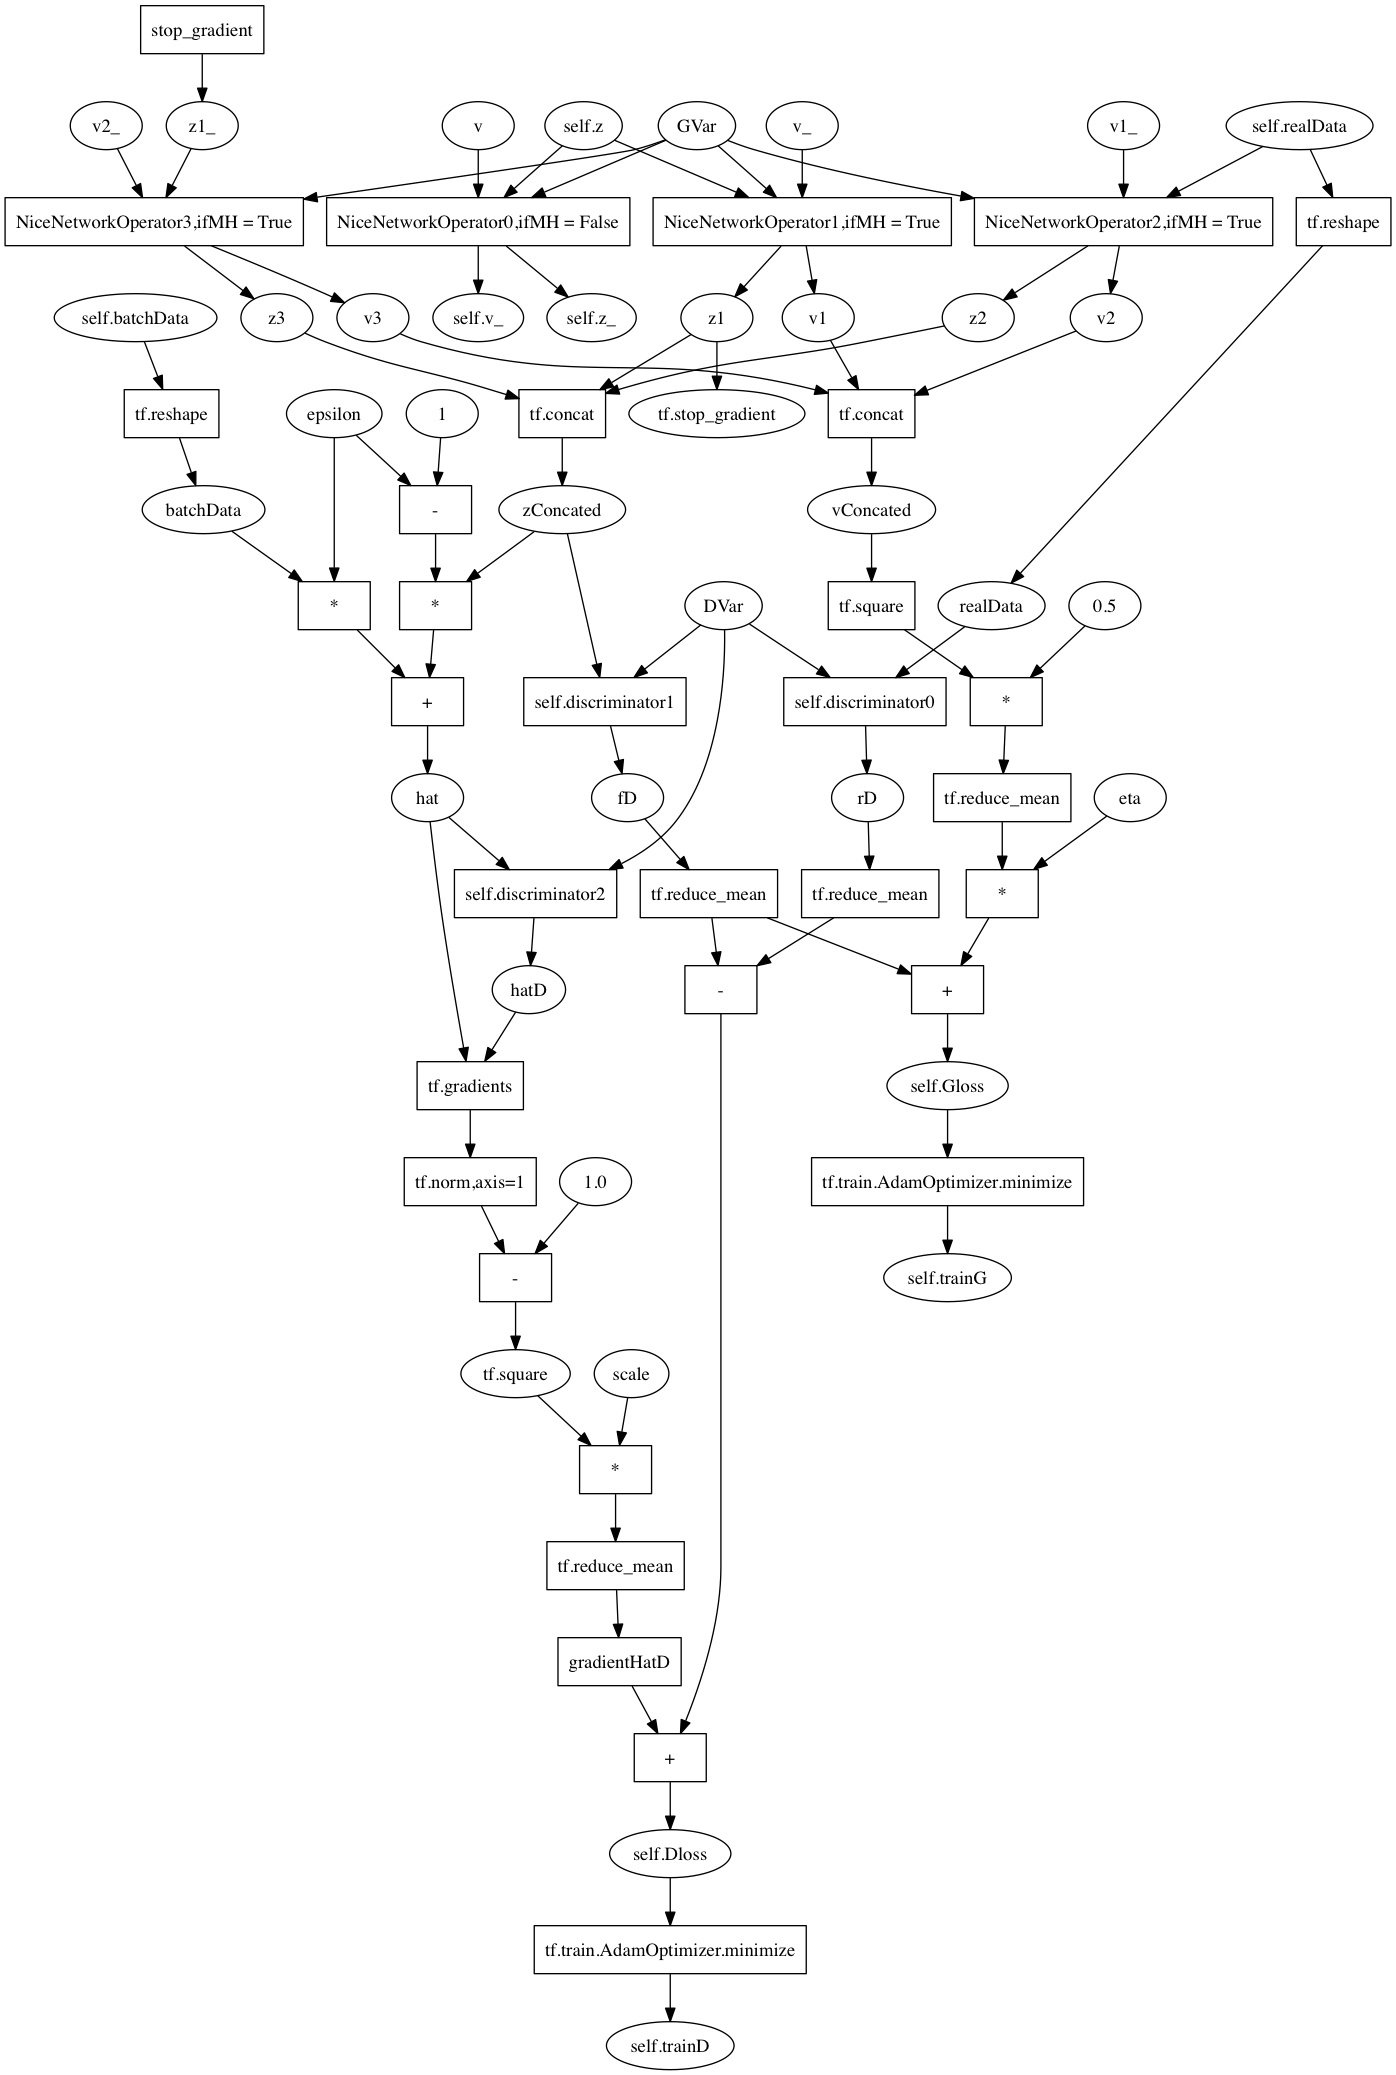
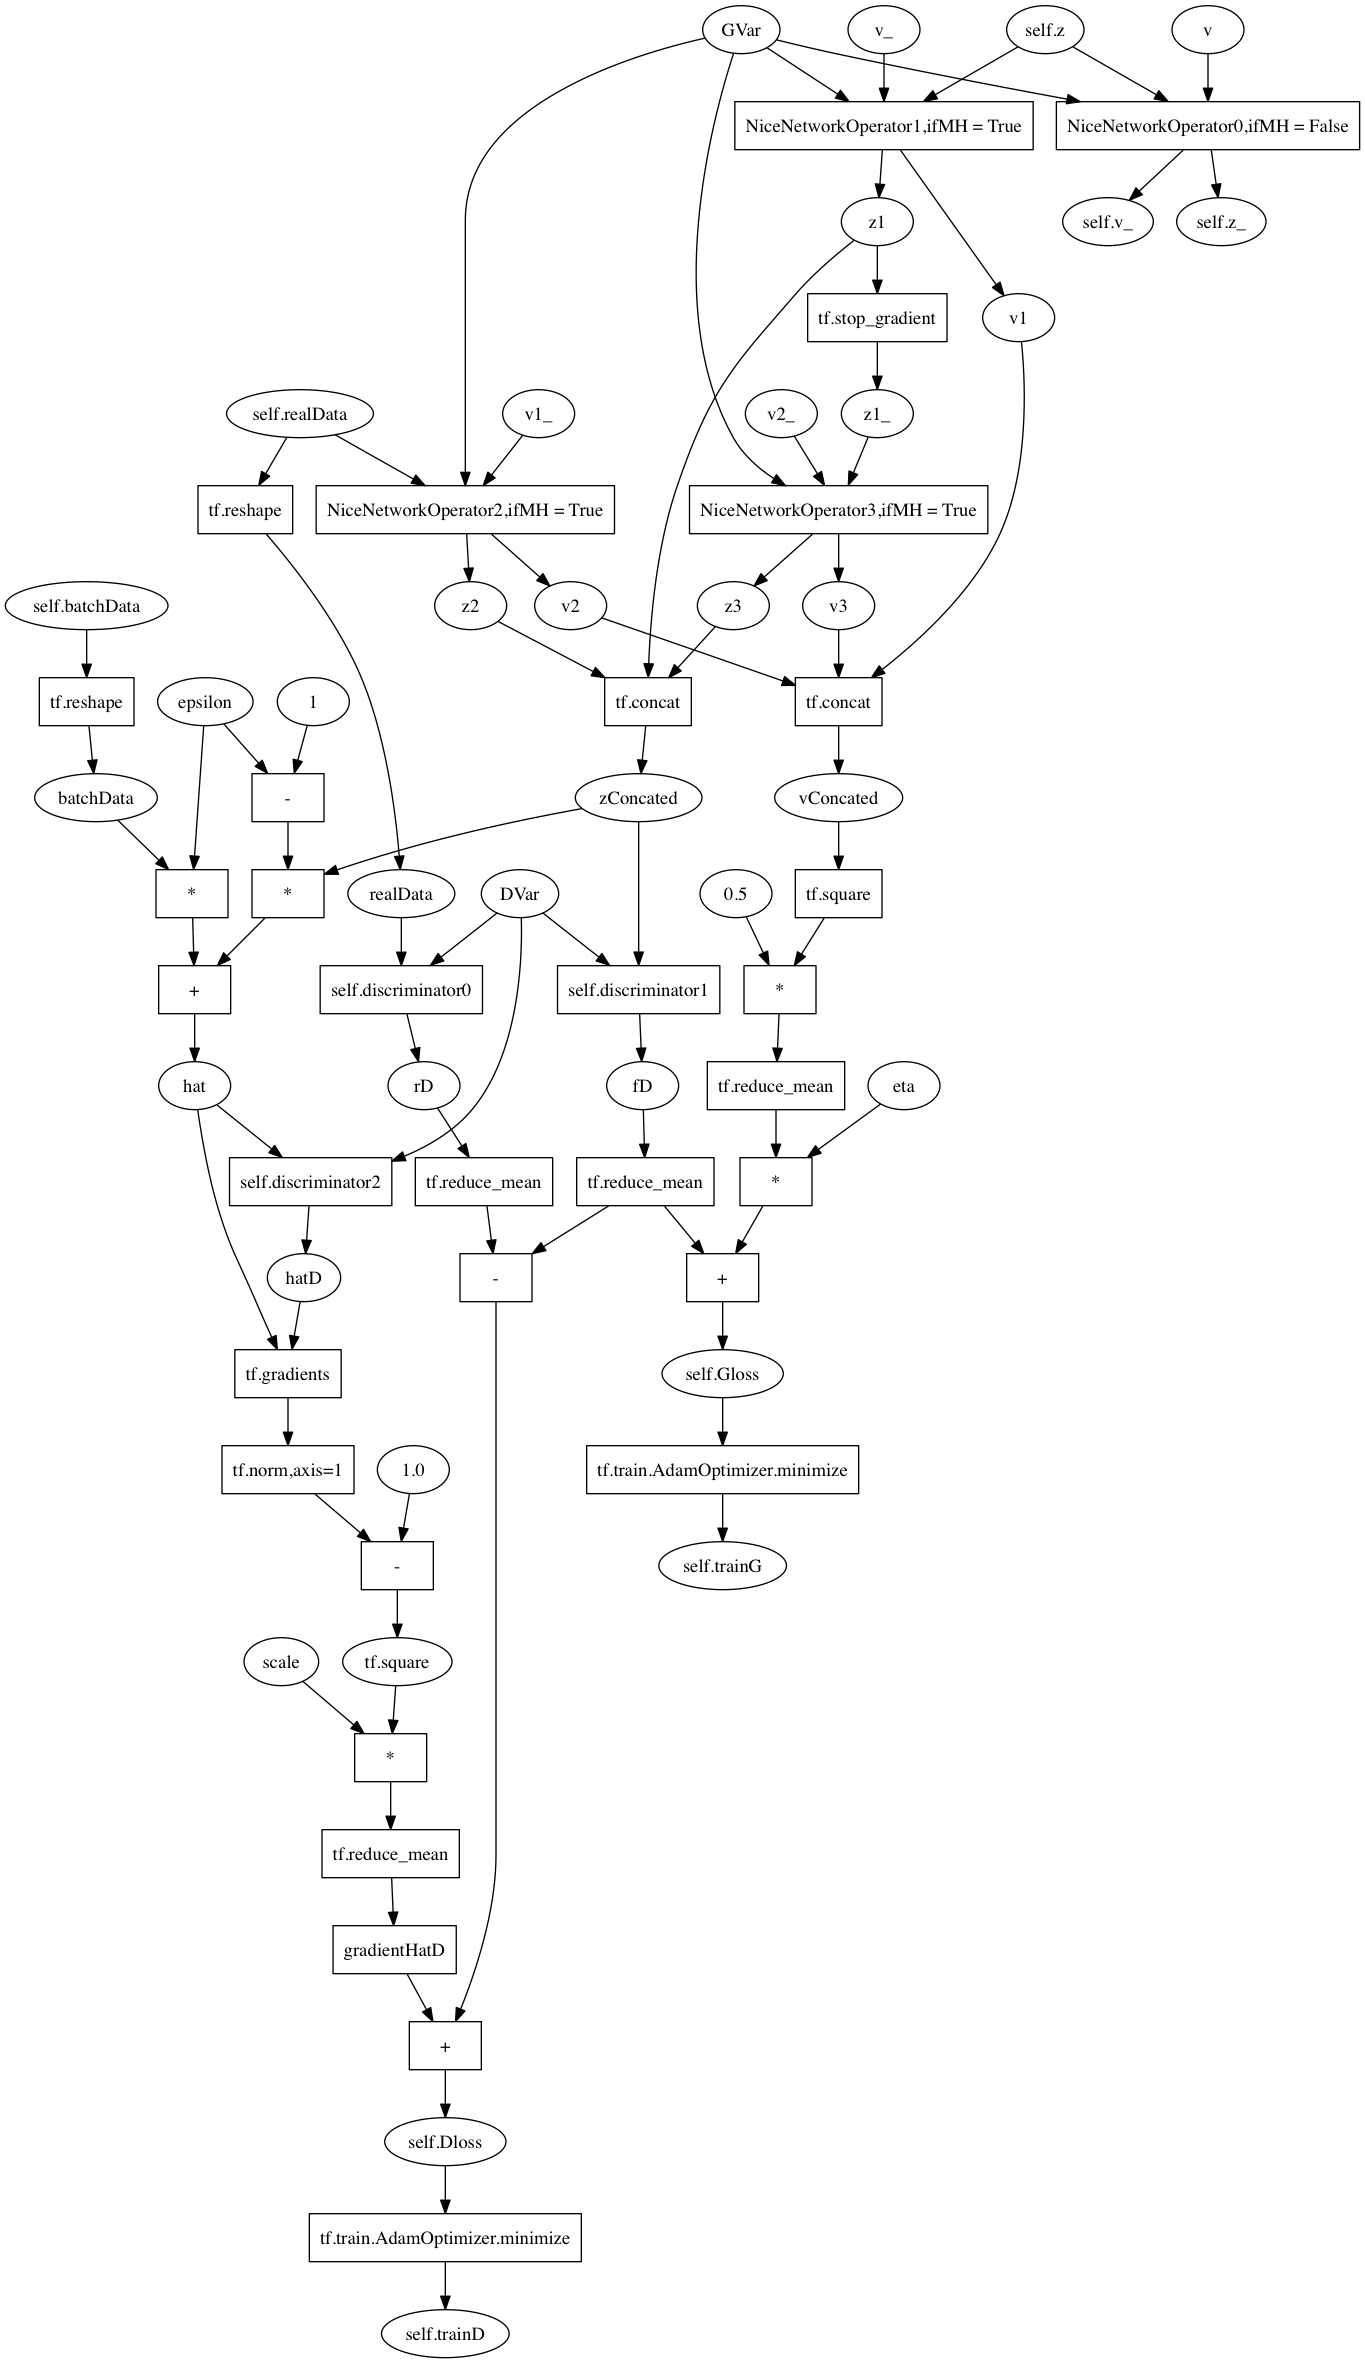
debug

diff --git a/etc/gancompgraph.py b/etc/gancompgraph.py
@@ -24,10 +24,10 @@ g.add_edge("v_","NiceNetworkOperator1,ifMH = True")
 g.add_edge("NiceNetworkOperator1,ifMH = True","z1")
 g.add_edge("NiceNetworkOperator1,ifMH = True","v1")
 
-g.add_node("stop_gradient",shape='box')
+g.add_node("tf.stop_gradient",shape='box')
 g.add_edge("z1","tf.stop_gradient")
 g.add_node("z1_")
-g.add_edge("stop_gradient","z1_")
+g.add_edge("tf.stop_gradient","z1_")
 
 g.add_node("v1_")
 g.add_node("NiceNetworkOperator2,ifMH = True",shape='box')
